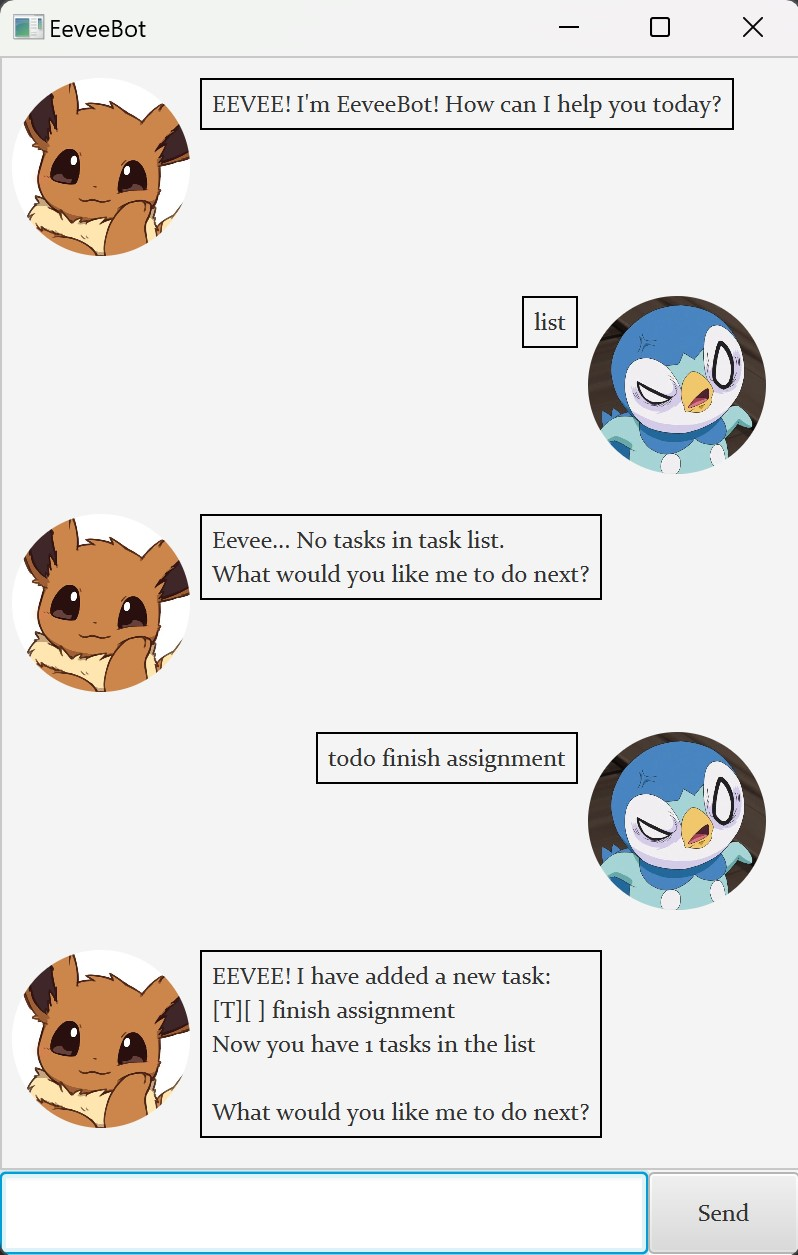
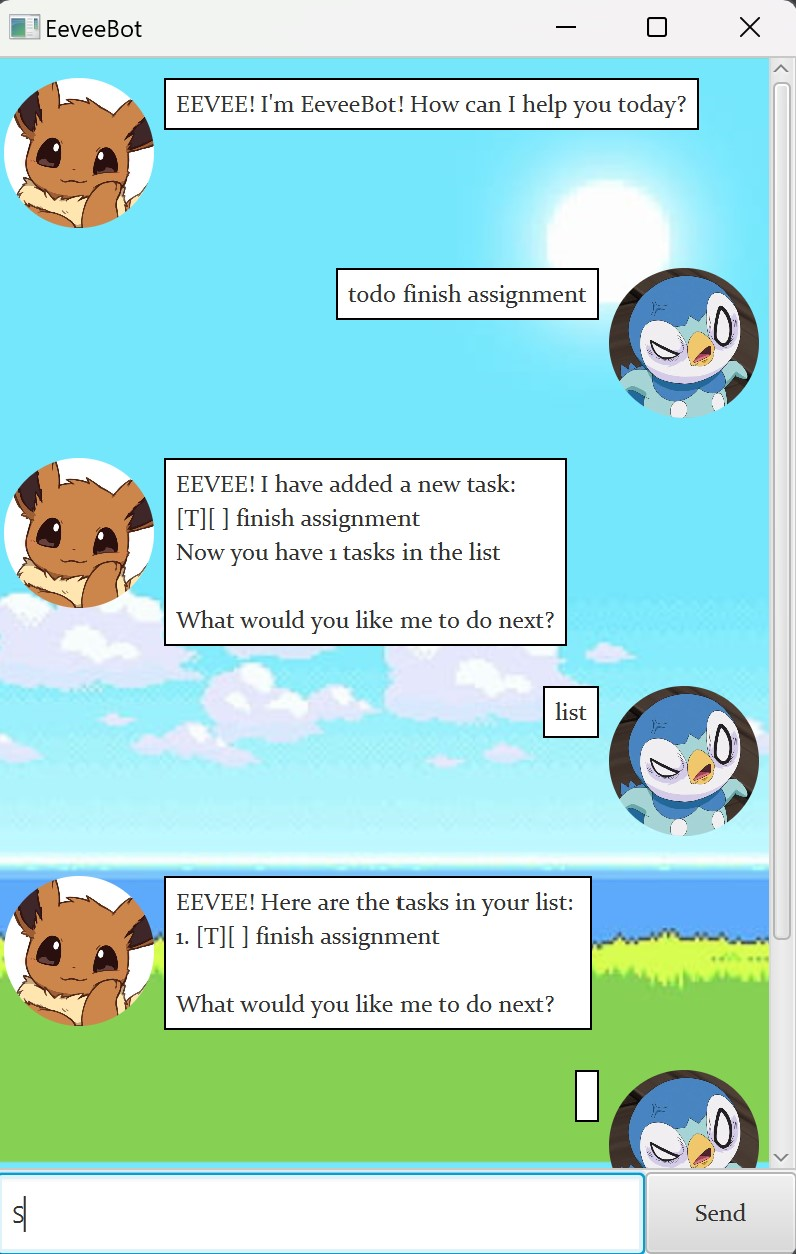
Fix problem with saving tasks in filepath and add background to GUI

diff --git a/src/main/java/eevee/Eevee.java b/src/main/java/eevee/Eevee.java
@@ -28,7 +28,7 @@ public class Eevee {
         } catch (IndexOutOfBoundsException e) {
             return "Eevee... Something went wrong while handling this task.";
         } catch (IOException e) {
-            return "Eevee :( Something went wrong";
+            return "Eevee :( Something went wrong when saving task to file.";
         } catch (DateTimeParseException e) {
             return "Format of date given is wrong. Please ensure format of date is yyyy-MM-dd HH:mm " +
                     "(e.g. 2022-03-30 14:30)";

diff --git a/src/main/java/eevee/Storage.java b/src/main/java/eevee/Storage.java
@@ -26,8 +26,9 @@ public class Storage {
         try {
             this.eeveeFilePath = filePath;
             File eeveeTxt = new File(filePath);
-            if (eeveeTxt.createNewFile()) {
-                System.out.printf("Create file: %s\n", eeveeTxt.getName());
+            eeveeTxt.getParentFile().mkdirs();
+            if (!eeveeTxt.exists()) {
+                eeveeTxt.createNewFile();
             }
         } catch (IOException e) {
             System.out.printf("Something went wrong ): %s", e);

diff --git a/src/main/java/eevee/Main.java b/src/main/java/eevee/Main.java
@@ -13,7 +13,7 @@ import javafx.stage.Stage;
  */
 public class Main extends Application {
 
-    private Eevee eevee = new Eevee("./data/tasks.txt");
+    private Eevee eevee = new Eevee("/data/tasks.txt");
 
     @Override
     public void start(Stage stage) {
